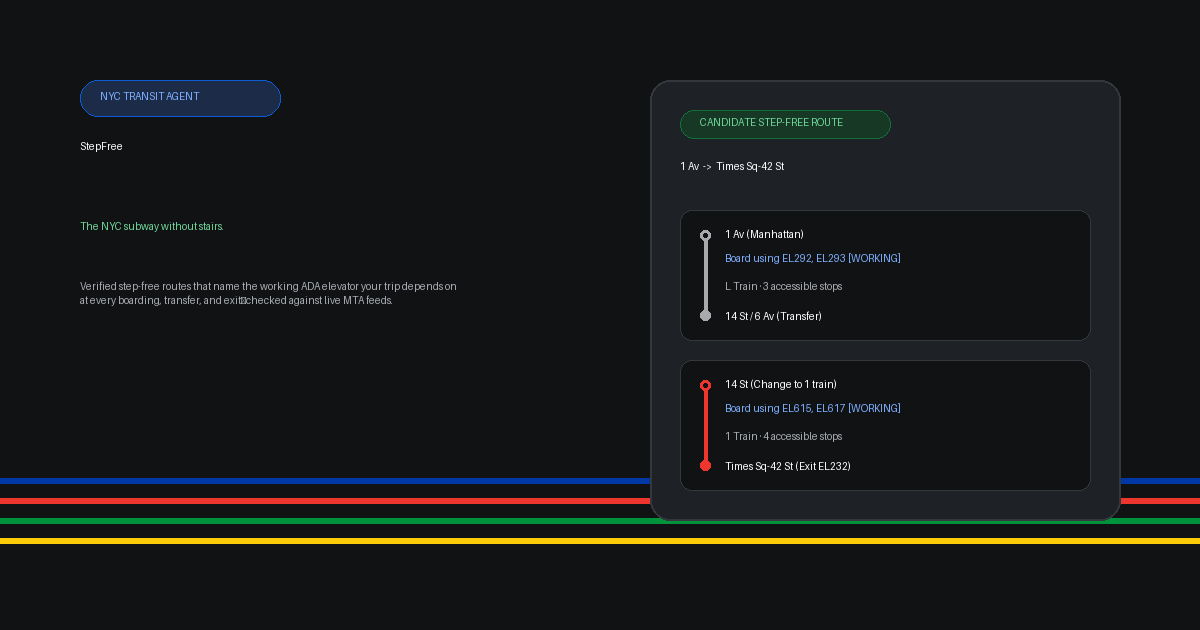
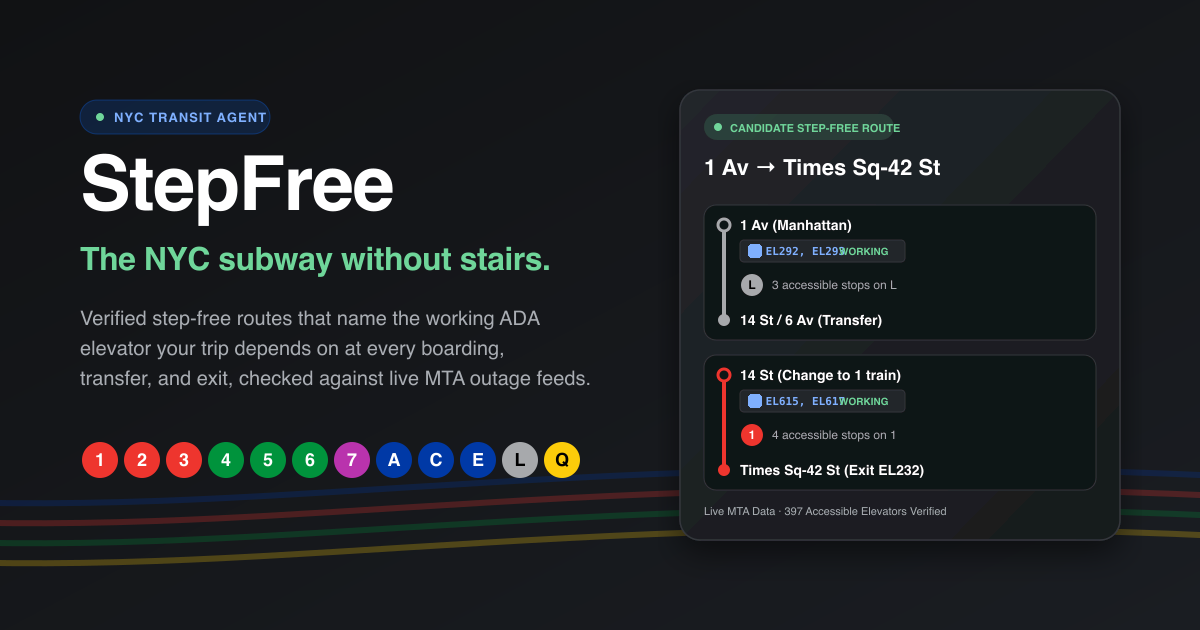
fix(seo): use a PNG for og:image and twitter:image (#38)
Facebook, X, LinkedIn and Slack do not render SVG share images. The layout
pointed at /og-image.svg. Re-render the SVG to a 1200x630 PNG (the old PNG
was a low quality raster with unstyled text) and reference it.

diff --git a/web/src/app/layout.tsx b/web/src/app/layout.tsx
@@ -25,7 +25,7 @@ export const metadata: Metadata = {
     siteName: "StepFree",
     images: [
       {
-        url: "/og-image.svg",
+        url: "/og-image.png",
         width: 1200,
         height: 630,
         alt: "StepFree - Step-free trips on the NYC subway with verified working elevators",
@@ -39,7 +39,7 @@ export const metadata: Metadata = {
     title: "StepFree: the NYC subway without stairs",
     description:
       "Step-free trips on the New York City subway, with the verified working ADA elevators each trip depends on.",
-    images: ["/og-image.svg"],
+    images: ["/og-image.png"],
   },
 };
 

diff --git a/web/src/app/layout.test.ts b/web/src/app/layout.test.ts
@@ -1,0 +1,15 @@
+import {describe, expect, it, vi} from 'vitest'
+
+vi.mock('next/font/google', () => {
+  const font = () => ({variable: '', className: ''})
+  return {Atkinson_Hyperlegible_Next: font, Azeret_Mono: font}
+})
+
+describe('share image metadata', () => {
+  it('uses a raster PNG for og:image and twitter:image, not an SVG', async () => {
+    const {metadata} = await import('./layout')
+    const og = metadata.openGraph?.images as {url: string}[]
+    expect(og[0].url).toBe('/og-image.png')
+    expect(metadata.twitter?.images).toEqual(['/og-image.png'])
+  })
+})
